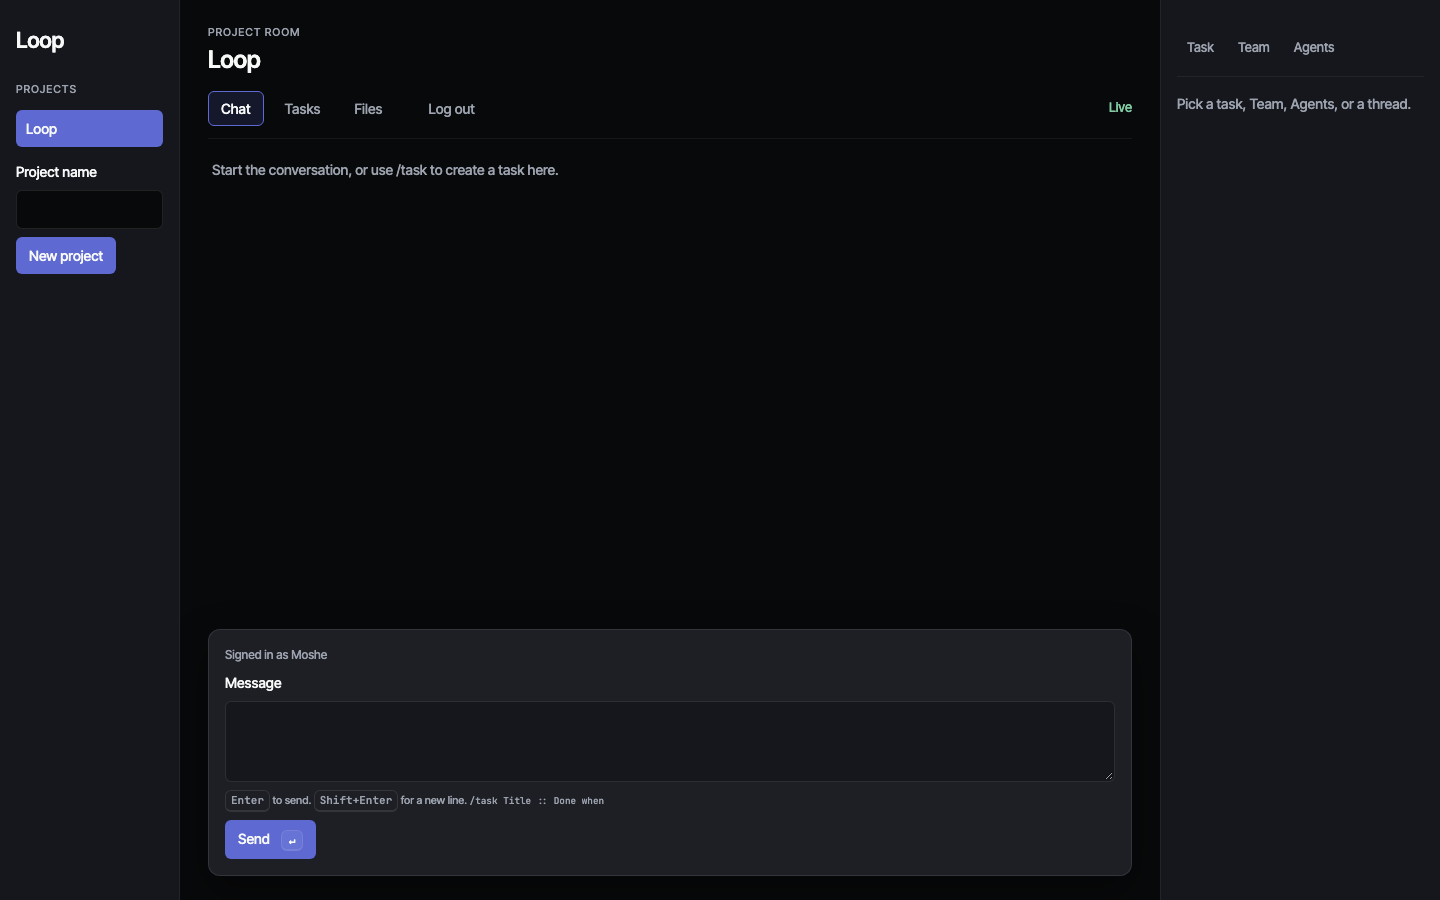
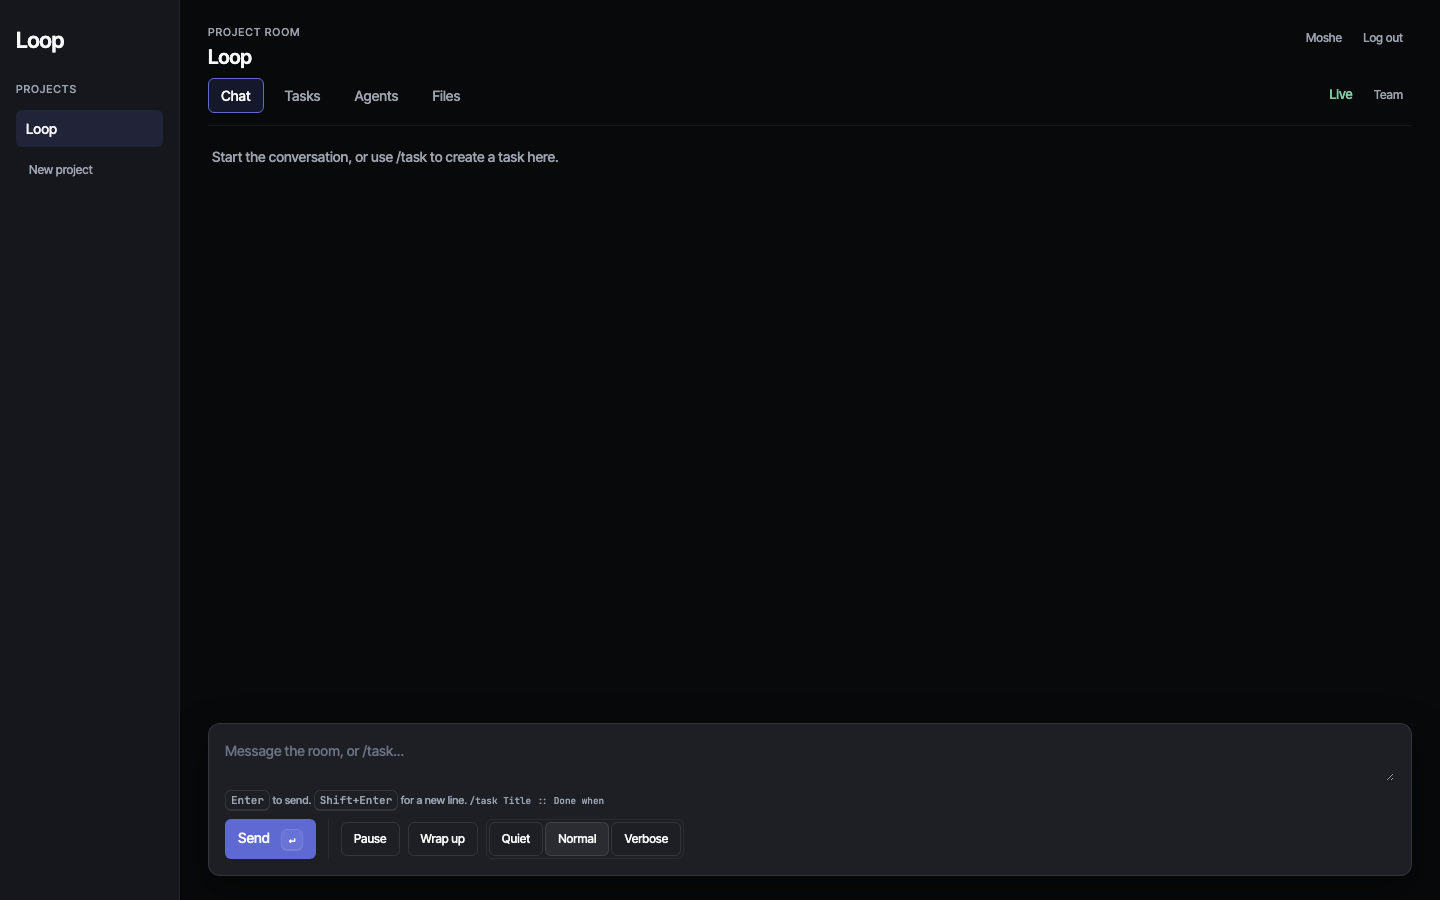
Make Agents a centre tab, not an inspector kind.
The roster lives next to Chat, Tasks, and Files. An agent profile still
opens in the inspector. Team stays a room-details control.

diff --git a/apps/web/components/Room.tsx b/apps/web/components/Room.tsx
@@ -20,7 +20,7 @@ import Team from './Team';
 import FilesPanel, { ArtifactPreview } from './FilesPanel';
 import Inbox from './Inbox';
 
-type InspectorKind = 'closed' | 'task' | 'team' | 'agents' | 'agent' | 'thread' | 'artifact';
+type InspectorKind = 'closed' | 'task' | 'team' | 'agent' | 'thread' | 'artifact';
 
 function relatedTask(message: Message, tasks: Task[]): Task | undefined {
   if (message.body.kind !== 'task') return undefined;
@@ -268,7 +268,6 @@ export default function Room() {
       tasks={state.tasks}
       files={files}
       onKind={setInspectorKind}
-      onSelectAgent={openAgent}
       onUpdatedAgent={setInspectAgent}
       onOpenArtifact={openArtifact}
       onClose={() => { setInspector('closed'); setInspectTaskId(null); setInspectThreadId(null); setInspectAgent(null); setInspectFileId(null); }}
@@ -288,6 +287,9 @@ export default function Room() {
           : null}
       </span>
       <span className="room-tab">
+        <button aria-pressed={view === 'agents'} onClick={() => { setView('agents'); setInspectorKind('closed'); }}>Agents</button>
+      </span>
+      <span className="room-tab">
         <button aria-pressed={view === 'files'} onClick={() => setView('files')}>Files</button>
       </span>
       </>}
@@ -303,7 +305,6 @@ export default function Room() {
     </nav>
     {selected && inspector === 'closed' && <div className="room-tools" role="group" aria-label="Room details">
       <button type="button" onClick={() => setInspectorKind('team')}>Team</button>
-      <button type="button" onClick={() => setInspectorKind('agents')}>Agents</button>
     </div>}</div>
     {error && <p role="alert">{error} <button onClick={() => setAttempt((value) => value + 1)}>Retry</button></p>}
     {!cursors && !error && me && <p>{selected ? 'Loading room...' : 'Loading inbox...'}</p>}
@@ -319,6 +320,7 @@ export default function Room() {
       room={selected}
       onSelectTask={(id) => { setInspectTaskId(id); setInspectorKind('task'); }}
     />
+      : view === 'agents' ? <RoomAgents key={selected} room={selected} onSelectAgent={openAgent} />
       : <FilesPanel room={selected} files={files} onSelectFile={openArtifact} onChange={() => {
         void api<RoomFilesSnapshot>(`/rooms/${encodeURIComponent(selected)}/files`).then((snapshot) => setFiles(snapshot.files)).catch((err: Error) => setError(err.message));
       }} />)}
@@ -326,7 +328,7 @@ export default function Room() {
 }
 
 function Inspector({
-  host, kind, room, roomName, role, author, task, agent, file, threadRoot, threadMessages, tasks, files, onKind, onSelectAgent, onUpdatedAgent, onOpenArtifact, onClose,
+  host, kind, room, roomName, role, author, task, agent, file, threadRoot, threadMessages, tasks, files, onKind, onUpdatedAgent, onOpenArtifact, onClose,
 }: {
   host: HTMLElement;
   kind: InspectorKind;
@@ -342,7 +344,6 @@ function Inspector({
   tasks: Task[];
   files: RoomFile[];
   onKind: (kind: InspectorKind) => void;
-  onSelectAgent: (agent: RoomAgent) => void;
   onUpdatedAgent: (agent: RoomAgent) => void;
   onOpenArtifact: (file: RoomFile) => void;
   onClose: () => void;
@@ -355,7 +356,7 @@ function Inspector({
       : kind === 'agent' ? (agent?.name ?? 'Agent')
         : kind === 'artifact' ? (file?.name ?? 'File')
           : kind === 'closed' ? '' : roomName;
-  const kindLabel = kind === 'task' ? 'Task' : kind === 'team' ? 'Team' : kind === 'agents' ? 'Agents' : kind === 'thread' ? 'THREAD' : kind === 'agent' ? 'AGENT' : kind === 'artifact' ? 'FILE' : '';
+  const kindLabel = kind === 'task' ? 'Task' : kind === 'team' ? 'Team' : kind === 'thread' ? 'THREAD' : kind === 'agent' ? 'AGENT' : kind === 'artifact' ? 'FILE' : '';
   return createPortal(
     <aside className="context" aria-label="Context panel"><div className="inspector" data-inspector={kind}>
       {open && <div className="inspector-head">
@@ -366,15 +367,13 @@ function Inspector({
       <div className="inspector-tabs" role="tablist" aria-label="Inspector">
         <button type="button" aria-pressed={kind === 'task'} onClick={() => onKind('task')}>Task</button>
         <button type="button" aria-pressed={kind === 'team'} onClick={() => onKind('team')}>Team</button>
-        <button type="button" aria-pressed={kind === 'agents'} onClick={() => onKind('agents')}>Agents</button>
       </div>
       <div className="inspector-body" data-inspector-body={kind}>
-        {kind === 'closed' && <p className="inspector-empty">Pick a task, Team, Agents, or a thread.</p>}
+        {kind === 'closed' && <p className="inspector-empty">Pick a task, Team, or a thread.</p>}
         {kind === 'task' && (task
           ? <TaskDetail task={task} />
           : <p className="inspector-empty">Select a task to see its owner and definition of done.</p>)}
         {kind === 'team' && <Team room={room} />}
-        {kind === 'agents' && <RoomAgents room={room} onSelectAgent={onSelectAgent} />}
         {kind === 'agent' && (agent
           ? <AgentProfile agent={agent} room={room} role={role} onUpdated={onUpdatedAgent} />
           : <p className="inspector-empty">Select an agent to see its profile.</p>)}

diff --git a/tests/inspect-one.spec.ts b/tests/inspect-one.spec.ts
@@ -8,7 +8,7 @@ import { authedContext, seedSession, withAuth } from './auth';
 
 const apiUrl = 'http://127.0.0.1:3101/api';
 
-test('the inspector shows one of Task, Team, or Agents, and Close returns to empty', async ({ browser, request: raw }) => {
+test('the inspector shows Task or Team, Agents is a centre view, and Close removes the inspector', async ({ browser, request: raw }) => {
   const dir = mkdtempSync(join(tmpdir(), 'loop-inspect-one-'));
   const session = seedSession(join(dir, 'loop.sqlite'));
   const request = withAuth(raw, session.token);
@@ -43,7 +43,10 @@ test('the inspector shows one of Task, Team, or Agents, and Close returns to emp
     await expect(close).toHaveCount(0);
     await expect(page.getByRole('button', { name: 'Task', exact: true })).toHaveCount(0);
     await expect(page.getByRole('button', { name: 'Team' })).toBeVisible();
-    await expect(page.getByRole('button', { name: 'Agents' })).toBeVisible();
+    const views = page.getByRole('navigation', { name: 'Room views' });
+    await expect(views.getByRole('button')).toHaveText(['Chat', 'Tasks', 'Agents', 'Files']);
+    await expect(views.getByRole('button', { name: 'Chat' })).toHaveAttribute('aria-pressed', 'true');
+    await expect(page.getByRole('group', { name: 'Room details' }).getByRole('button')).toHaveText(['Team']);
     await page.screenshot({ path: resolve('docs/screenshots/inspect-one-closed.png') });
 
     await page.getByRole('button', { name: 'Team' }).click();
@@ -59,13 +62,15 @@ test('the inspector shows one of Task, Team, or Agents, and Close returns to emp
     await expect(agentsHeading).toHaveCount(0);
     await expect(close).toHaveCount(0);
 
-    await page.getByRole('button', { name: 'Agents' }).click();
-    await expect(page.getByRole('form', { name: 'Add agent' })).toBeVisible();
+    await views.getByRole('button', { name: 'Agents' }).click();
+    await expect(views.getByRole('button', { name: 'Agents' })).toHaveAttribute('aria-pressed', 'true');
+    await expect(page.getByRole('complementary', { name: 'Context panel' })).toHaveCount(0);
+    await expect(page.getByText('Add agent', { exact: true })).toBeVisible();
     await expect(agentsHeading).toHaveCount(1);
     await expect(teamHeading).toHaveCount(0);
-    await expect(close).toBeVisible();
+    await expect(close).toHaveCount(0);
 
-    await page.getByRole('button', { name: 'Tasks', exact: true }).click();
+    await views.getByRole('button', { name: 'Tasks', exact: true }).click();
     await page.getByRole('button', { name: 'inspect work' }).click();
     await expect(page.locator('.inspector-title')).toHaveText('inspect work');
     await expect(page.getByRole('region', { name: 'Task detail' })).toBeVisible();
@@ -78,6 +83,7 @@ test('the inspector shows one of Task, Team, or Agents, and Close returns to emp
     await expect(page.getByRole('button', { name: 'Task', exact: true })).toBeVisible();
     await expect(page.getByRole('button', { name: 'Team' })).toBeVisible();
     await expect(page.getByRole('button', { name: 'Agents' })).toBeVisible();
+    await expect(page.getByRole('tablist', { name: 'Inspector' }).getByRole('button')).toHaveText(['Task', 'Team']);
     await page.screenshot({ path: resolve('docs/screenshots/inspect-one-open.png') });
 
     await close.click();

diff --git a/tests/agent-profile.spec.ts b/tests/agent-profile.spec.ts
@@ -47,13 +47,13 @@ test('clicking a room agent opens a closable agent profile in the inspector', as
     const teamHeading = page.getByRole('heading', { name: 'Team' });
     const agentsHeading = page.getByRole('heading', { name: 'Agents' });
     const close = page.getByRole('button', { name: 'Close' });
-    const empty = page.locator('.inspector-empty');
+    const inspector = page.getByRole('complementary', { name: 'Context panel' });
+    const agentsTab = page.getByRole('navigation', { name: 'Room views' }).getByRole('button', { name: 'Agents' });
     const profile = page.getByRole('region', { name: 'Agent profile' });
     const taskDetail = page.getByRole('region', { name: 'Task detail' });
     const agentBody = page.locator('[data-inspector-body="agent"]');
 
-    await expect(empty).toBeVisible();
-    await expect(empty).toHaveText('Pick a task, Team, Agents, or a thread.');
+    await expect(inspector).toHaveCount(0);
     await expect(close).toHaveCount(0);
     await expect(agentBody).toHaveCount(0);
     await expect(profile).toHaveCount(0);
@@ -61,8 +61,10 @@ test('clicking a room agent opens a closable agent profile in the inspector', as
     await expect(agentsHeading).toHaveCount(0);
     await page.screenshot({ path: resolve('docs/screenshots/agent-profile-closed.png') });
 
-    await page.getByRole('button', { name: 'Agents' }).click();
-    await expect(page.getByRole('form', { name: 'Add agent' })).toBeVisible();
+    await agentsTab.click();
+    await expect(agentsTab).toHaveAttribute('aria-pressed', 'true');
+    await expect(inspector).toHaveCount(0);
+    await expect(page.getByText('Add agent', { exact: true })).toBeVisible();
     await expect(agentsHeading).toHaveCount(1);
     await expect(teamHeading).toHaveCount(0);
     await expect(profile).toHaveCount(0);
@@ -81,21 +83,21 @@ test('clicking a room agent opens a closable agent profile in the inspector', as
     await expect(profile.getByText('@scout')).toBeVisible();
     await expect(profile.getByText('probe')).toBeVisible();
     await expect(teamHeading).toHaveCount(0);
-    await expect(agentsHeading).toHaveCount(0);
+    await expect(agentsHeading).toHaveCount(1);
     await expect(taskDetail).toHaveCount(0);
     await expect(page.locator('[data-inspector-body="thread"]')).toHaveCount(0);
     await expect(page.locator('[data-inspector-body="team"]')).toHaveCount(0);
     await expect(page.locator('[data-inspector-body="agents"]')).toHaveCount(0);
     await expect(page.locator('[data-inspector-body="task"]')).toHaveCount(0);
-    await expect(page.getByRole('form', { name: 'Add agent' })).toHaveCount(0);
+    await expect(page.getByRole('form', { name: 'Add agent' })).toBeHidden();
     await page.screenshot({ path: resolve('docs/screenshots/agent-profile-open.png') });
 
     await close.click();
-    await expect(empty).toBeVisible();
+    await expect(inspector).toHaveCount(0);
     await expect(profile).toHaveCount(0);
     await expect(agentBody).toHaveCount(0);
     await expect(close).toHaveCount(0);
-    await expect(agentsHeading).toHaveCount(0);
+    await expect(agentsHeading).toHaveCount(1);
     await expect(teamHeading).toHaveCount(0);
   } finally {
     await Promise.all(contexts.map((item) => item.close()));

diff --git a/tests/room-agents.spec.ts b/tests/room-agents.spec.ts
@@ -42,7 +42,11 @@ test('an owner adds an agent from the catalog and a /task @name routes to it', a
     const page = await context.newPage();
     await page.goto('http://127.0.0.1:3100/?room=default');
     await expect(page.locator('[data-live]')).toHaveAttribute('data-live', '1');
-    await page.getByRole('button', { name: 'Agents' }).click();
+    const views = page.getByRole('navigation', { name: 'Room views' });
+    await views.getByRole('button', { name: 'Agents' }).click();
+    await expect(views.getByRole('button', { name: 'Agents' })).toHaveAttribute('aria-pressed', 'true');
+    await expect(page.getByRole('complementary', { name: 'Context panel' })).toHaveCount(0);
+    await page.getByText('Add agent', { exact: true }).click();
     const form = page.getByRole('form', { name: 'Add agent' });
     await expect(form).toBeVisible();
     await form.getByLabel('Catalog').selectOption('probe');
@@ -54,7 +58,9 @@ test('an owner adds an agent from the catalog and a /task @name routes to it', a
     await expect(form.getByRole('button', { name: 'Add' })).toBeInViewport({ ratio: 1 });
     await expect(form.getByLabel('Catalog')).toBeInViewport({ ratio: 1 });
     await expect(page.locator('.room-agents li').filter({ hasText: '@scout' })).toBeInViewport({ ratio: 1 });
+    await page.screenshot({ path: 'docs/screenshots/room-agents.png' });
 
+    await views.getByRole('button', { name: 'Chat' }).click();
     await page.getByLabel('Message', { exact: true }).fill('/task @scout Named scout :: proof');
     const posted = page.waitForResponse((response) => response.url().endsWith('/messages') && response.request().method() === 'POST');
     await page.getByLabel('Message', { exact: true }).press('Enter');
@@ -63,7 +69,6 @@ test('an owner adds an agent from the catalog and a /task @name routes to it', a
     const card = page.locator('.chat-task').filter({ hasText: 'Named scout' });
     await expect(card.locator('.tp-chip')).toHaveText('done', { timeout: 10_000 });
     await expect(card.locator('[data-task-result]')).toHaveText(probeToken);
-    await page.screenshot({ path: 'docs/screenshots/room-agents.png' });
     const task = await (await request.get(`${apiUrl}/tasks/${cardMessage.body.taskId}`)).json() as Task;
     expect(task.agentId).toBe('scout');
     expect(task.claimedBy).toBe('probe');

diff --git a/apps/web/components/RoomAgents.tsx b/apps/web/components/RoomAgents.tsx
@@ -121,17 +121,20 @@ export default function RoomAgents({
             ? <button type="button" disabled={busy} onClick={() => { void remove(agent.id); }}>Remove</button>
             : null}
         </li>)}</ul>}
-      {owner && <form aria-label="Add agent" onSubmit={(event) => { void add(event); }}>
-        <label>Catalog
-          <select name="catalogId" required disabled={busy}>
-            {snapshot.catalog.map((item) => <option key={item.id} value={item.id}>{item.name}</option>)}
-          </select>
-        </label>
-        <label>Name
-          <input name="name" required maxLength={100} pattern="[A-Za-z0-9_-]+" disabled={busy} />
-        </label>
-        <button type="submit" disabled={busy}>{busy ? 'Saving...' : 'Add'}</button>
-      </form>}
+      {owner && <details>
+        <summary>Add agent</summary>
+        <form aria-label="Add agent" onSubmit={(event) => { void add(event); }}>
+          <label>Catalog
+            <select name="catalogId" required disabled={busy}>
+              {snapshot.catalog.map((item) => <option key={item.id} value={item.id}>{item.name}</option>)}
+            </select>
+          </label>
+          <label>Name
+            <input name="name" required maxLength={100} pattern="[A-Za-z0-9_-]+" disabled={busy} />
+          </label>
+          <button type="submit" disabled={busy}>{busy ? 'Saving...' : 'Add'}</button>
+        </form>
+      </details>}
       {error && <p role="alert">{error}</p>}
     </section>
   );

diff --git a/EVIDENCE.md b/EVIDENCE.md
@@ -2,7 +2,7 @@
 
 Generated by `npm run evidence` from repository facts plus the lint, test, and build commands.
 Browser tests are listed by spec name and are not executed here.
-Parent commit: 03df934977db7a0c89cbacd752fd9cc91055fa91
+Parent commit: c758d6d5d9331588f06f285032a1a995a7db5d61
 The recorded SHA is the commit the generator ran against. This file is committed afterwards, so the SHA is the parent of the evidence commit. The staleness gate ignores that line.
 
 ## Workspaces
@@ -122,7 +122,7 @@ tests/inbox.spec.ts
 - Inbox stays home, orders cross-room parked work, opens Task detail, and updates to empty
 
 tests/inspect-one.spec.ts
-- the inspector shows one of Task, Team, or Agents, and Close returns to empty
+- the inspector shows Task or Team, Agents is a centre view, and Close removes the inspector
 
 tests/live-feed.spec.ts
 - two tabs receive creates and status changes, then reconnect and replay after API restart
